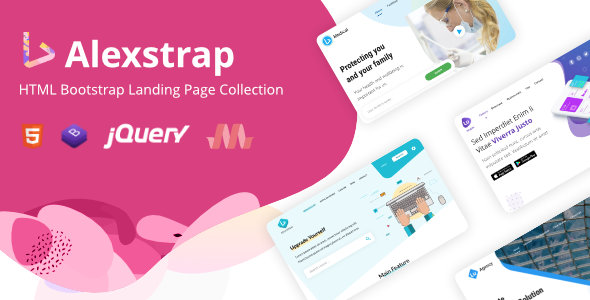
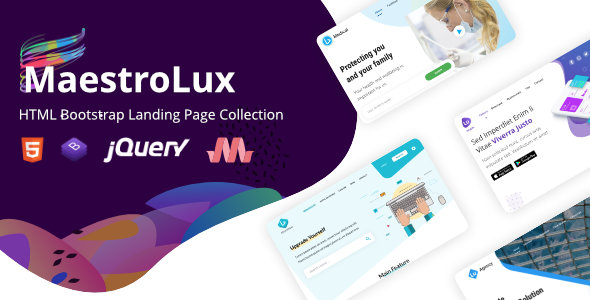
change brand

diff --git a/index.html b/index.html
@@ -9,7 +9,7 @@
     <meta name="author" content="">
     <link rel="shortcut icon" href="./favicon.ico" type="image/x-icon">
     <link rel="icon" href="./favicon.ico" type="image/x-icon">
-    <title>Alexstrap - Documentation</title>
+    <title>Maestrolux - Documentation</title>
 
     <link href="https://fonts.googleapis.com/css?family=Open+Sans:400,600,700" rel="stylesheet">
 
@@ -46,7 +46,7 @@
                     <a href="#introduction" class="cur">Introduction</a>
                 </li>
                 <li>
-                    <a href="#what">What is Alexstrap?</a>
+                    <a href="#what">What is Maestrolux?</a>
                 </li>
                 <li>
                     <a href="#feature">Feature</a>
@@ -95,7 +95,7 @@
                 </li>
             </ul>
 
-            <span class="copy">&copy; Copyright 2020 - Alexstrap</span>
+            <span class="copy">&copy; Copyright 2020 - Maestrolux</span>
         </div>
         <!-- /#sidebar-wrapper -->
 
@@ -107,15 +107,15 @@
                     <div class="col-lg-12">
                         <h1 class="title">Thank you for Purchasing </h1>
                         <br /><br />
-                        <h3>Alexstrap - HTML Landing Page Collection</h3>
+                        <h3>Maestrolux - HTML Landing Page Collection</h3>
                         <h4>Version 1.0.0</h4>
                         <hr />
                         <ul>
                             <li>
-                                Created : 20 Jul 2020
+                                Created : 21 Jul 2020
                             </li>
                             <li>
-                                Latest Update : 20 Jul 2020
+                                Latest Update : 21 Jul 2020
                             </li>
                         </ul>
                     </div>
@@ -125,18 +125,18 @@
                 <!-- WHAT -->
                 <section class="row" id="what">
                     <div class="col-lg-10">
-                        <h1>What is Alexstrap?</h1>
+                        <h1>What is Maestrolux?</h1>
                         <hr />
                         <img src="./images/banner.jpg" alt="banner" class="img-thumbnail" />
                         <br /><br />
                         <article>
                             <p>
-                                <strong>Alexstrap</strong> Is a Powerful, <strong>Responsive</strong> and Multipurpose One Page Template.
+                                <strong>Maestrolux</strong> Is a Powerful, <strong>Responsive</strong> and Multipurpose One Page Template.
                                 11 Landing Page Collection packed with flexible technologies and frameworks <strong>HTML5, Bootstrap 4, jQuery, MaterializeCSS and Pug.js</strong>. 
                                 Then for UI templates, Sketch files includes as well.
                             </p>
                             <p>
-                              <strong>Alexstrap</strong> provides you <strong>dramatic 24 color</strong> variation combined with <strong>Dark/Light mode</strong>,
+                              <strong>Maestrolux</strong> provides you <strong>dramatic 24 color</strong> variation combined with <strong>Dark/Light mode</strong>,
                               it’s thoughtfully designed to make Your users and visitors get fantastic user experience and greb information easier.
                               But, that’s not all - this template also has RTL support and translation ready with 6 languages.
                             </p>
@@ -144,7 +144,7 @@
                                 We have included 11 ready to use templates + starter-project. 
                                 Be it <strong>Medical Health, Education, Corporate Agency, Interior Architect, Movie Entertaintment, Cryptocurrency, Fashion, Cloud Hosting, Mobile Apps, Portfolio and Saas</strong>.
                                 Those awesome things is supported by hundreds of components based on material-ui designs. 
-                                That all for you to boost your web app development process. Alexstrap is very easy to fit your business needs!
+                                That all for you to boost your web app development process. Maestrolux is very easy to fit your business needs!
                                 Try to visit the demo and get convinced!
                             </p>
                         </article>
@@ -268,7 +268,7 @@
 						<ul>
 							<li>Connect to the internet</li>
 							<li>Install NodeJs from <a href="https://nodejs.org/en/" target="_blank" rel="noopener noreferrer">NodeJs Official Page</a></li>
-							<li>Unzip the Alexstrap file to a folder in your computer</li>
+							<li>Unzip the Maestrolux file to a folder in your computer</li>
 							<li>Open Terminal</li>
 							<li>Go to your file project (where you've unzipped the product)</li>
                             <li>Go to packages and choose a template. Example <code>packages/agency/</code></li>
@@ -1222,14 +1222,14 @@ template-theme
                             <thead>
                               <tr>
                                 <th>
-                                    <strong>Version 1.0 – 20 Jul, 2020</strong>
+                                    <strong>Version 1.0 – 21 Jul, 2020</strong>
                                 </th>
                               </tr>
                             </thead>
                             <tbody>
                                 <tr>
                                   <td>
-                                      Alexstrap released
+                                      Maestrolux released
                                   </td>
                                 </tr>
                             </tbody>

diff --git a/code_flow/pug_coding.html b/code_flow/pug_coding.html
@@ -10,7 +10,7 @@
     <meta name="author" content="">
     <link rel="shortcut icon" href="./favicon.ico" type="image/x-icon">
     <link rel="icon" href="../favicon.ico" type="image/x-icon">
-    <title>Alexstrap - Documentation</title>
+    <title>Maestrolux - Documentation</title>
 
     <link href="https://fonts.googleapis.com/css?family=Open+Sans:400,600,700" rel="stylesheet">
 
@@ -65,7 +65,7 @@
                 </li>
             </ul>
             <a class="back" href="../index.html"><i class="glyphicon glyphicon-arrow-left"></i> Back to Main Docs</a>
-            <span class="copy">&copy; Copyright 2020 - Alexstrap</span>
+            <span class="copy">&copy; Copyright 2020 - Maestrolux</span>
         </div>
         <!-- /#sidebar-wrapper -->
 
@@ -189,12 +189,12 @@ block content
                         <pre><code class="language-js">brand": {
   "agency": {
     "name": "Agency",
-    "desc": "Alexstrap Agency - HTML5 Bootstrap Landing Page Template",
-    "prefix": "alexstrap",
-    "footerText": "Alexstrap Agency - All Rights Reserved 2020",
-    "logoText": "Alexstrap Theme",
+    "desc": "Maestrolux Agency - HTML5 Bootstrap Landing Page Template",
+    "prefix": "Maestrolux",
+    "footerText": "Maestrolux Agency - All Rights Reserved 2020",
+    "logoText": "Maestrolux Theme",
     "projectName": "Agency Project",
-    "url": "alexstrap.ux-maestro.com/agency",
+    "url": "Maestrolux.ux-maestro.com/agency",
     "img": "/images/agency-logo.png",
     "notifMsg": "Donec sit amet nulla sed arcu pulvinar ultricies commodo id ligula"
   }
